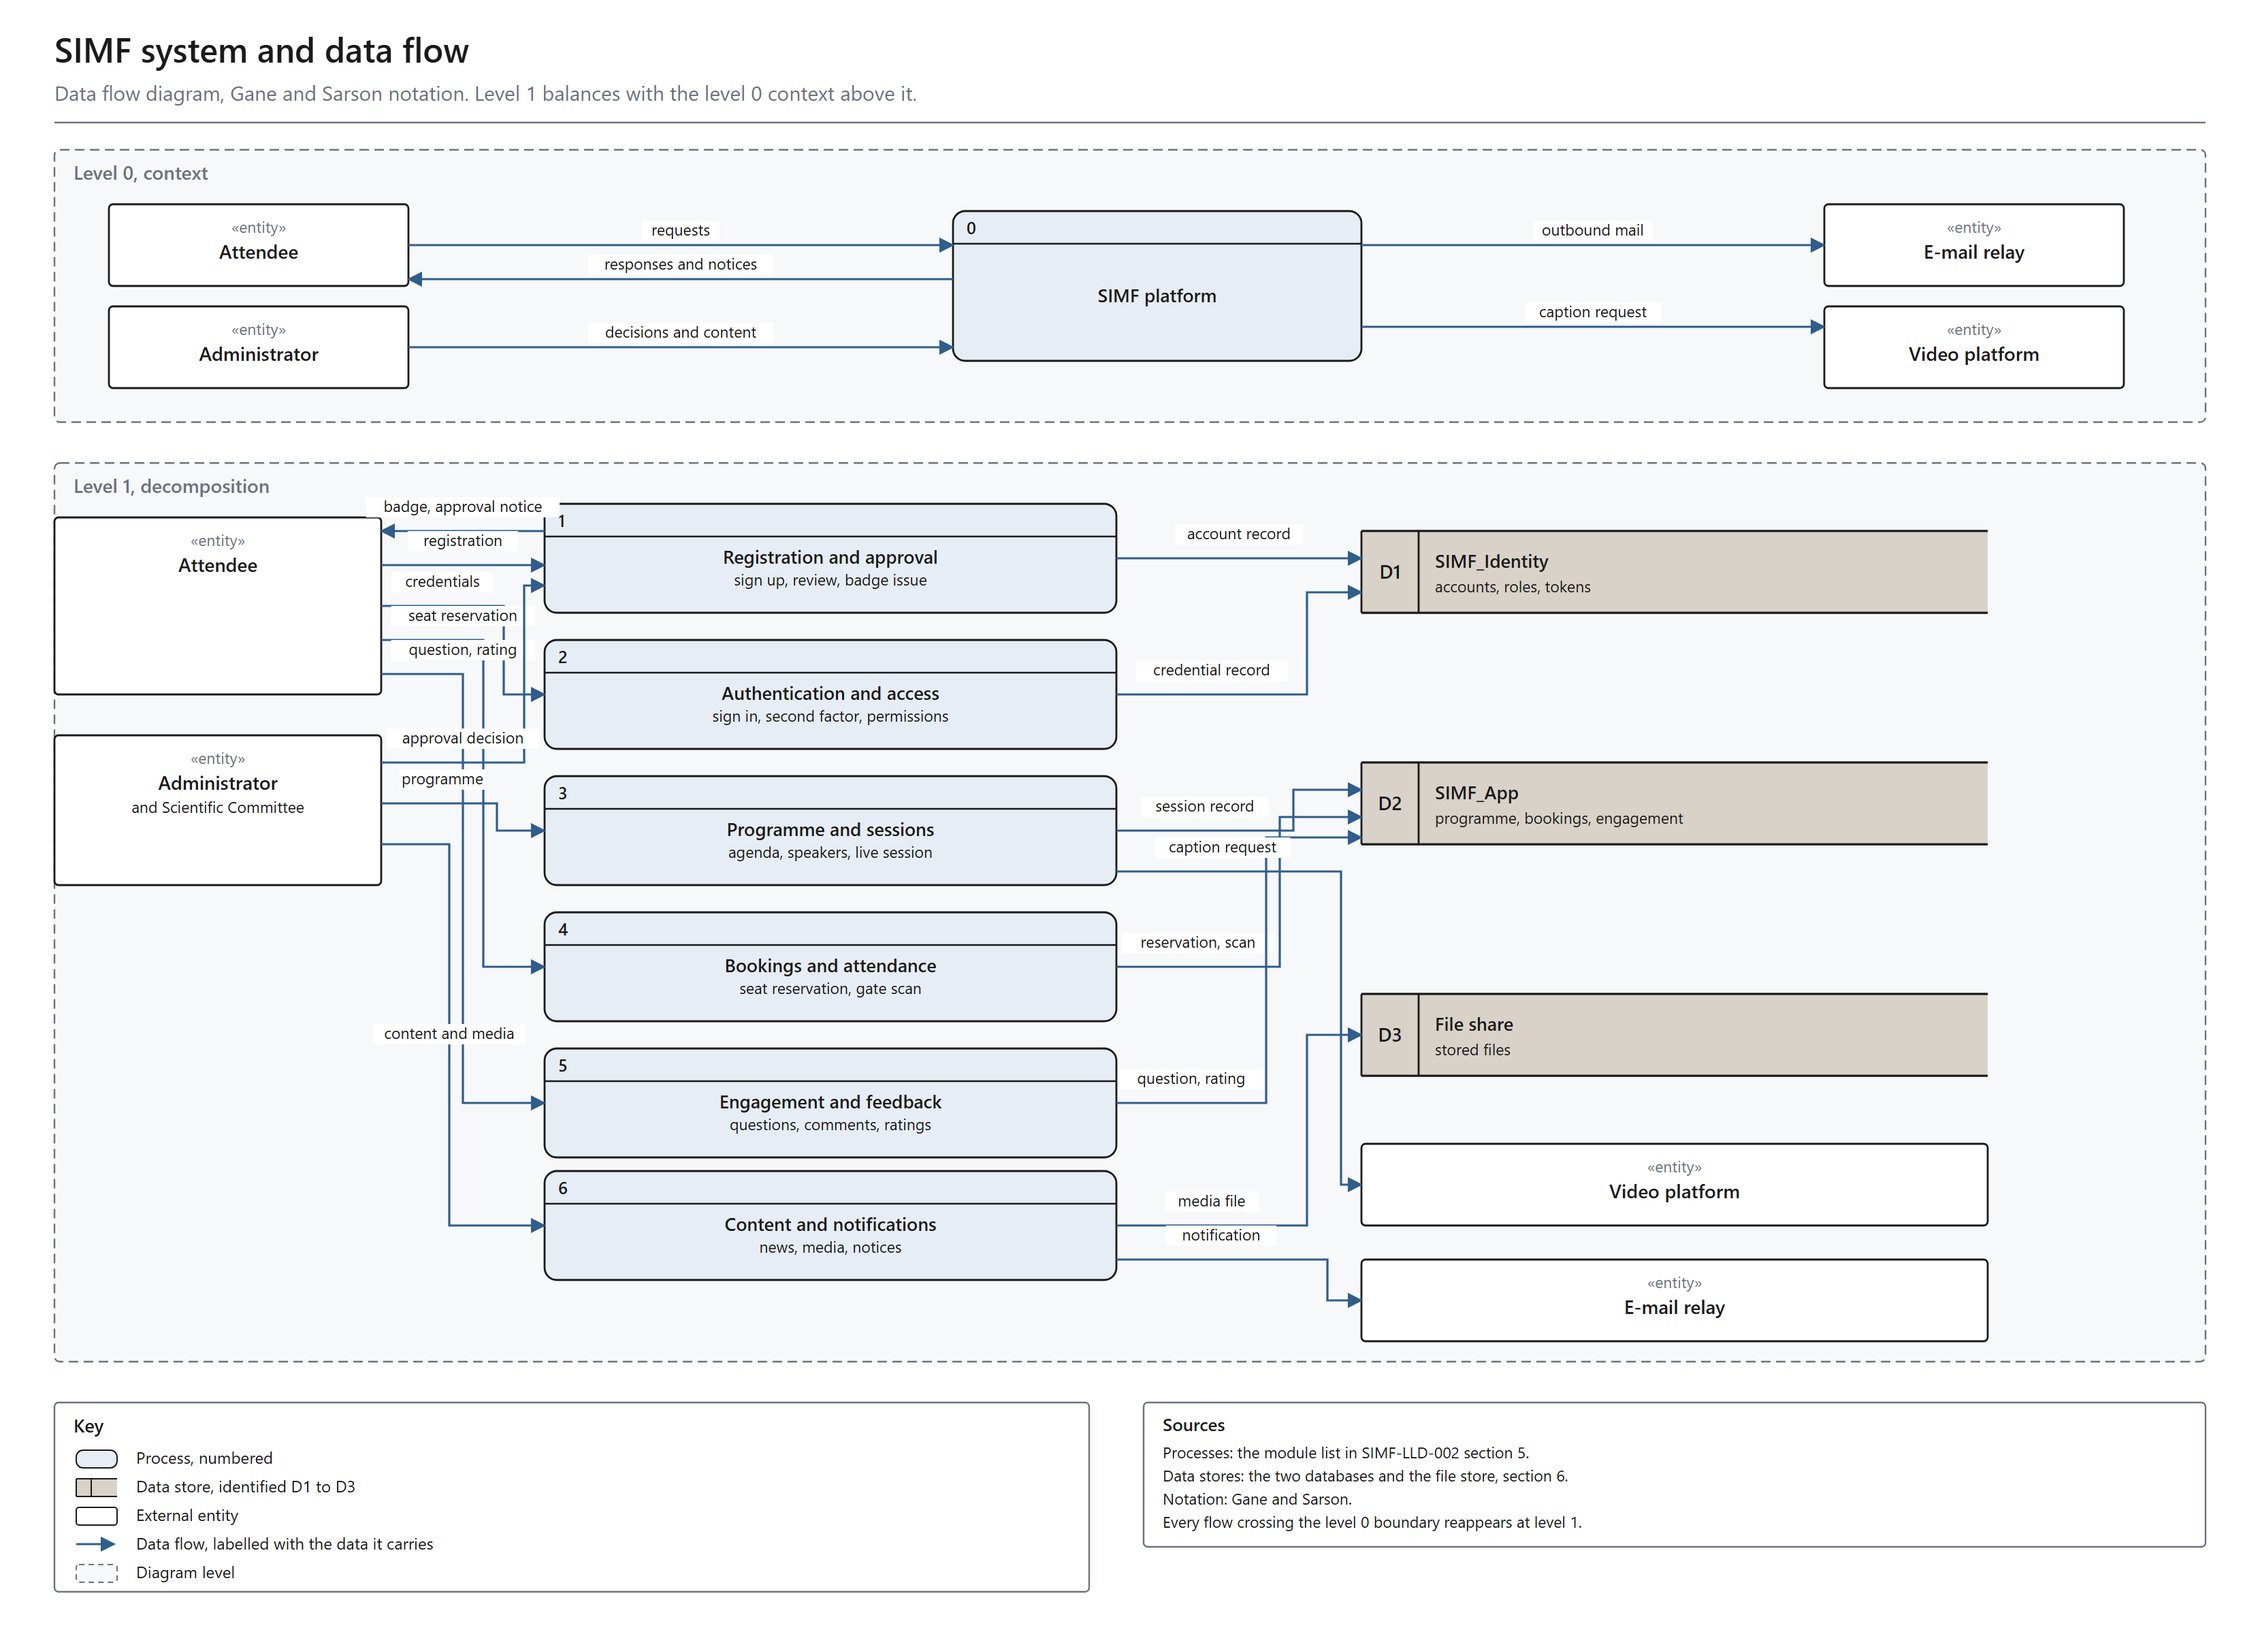
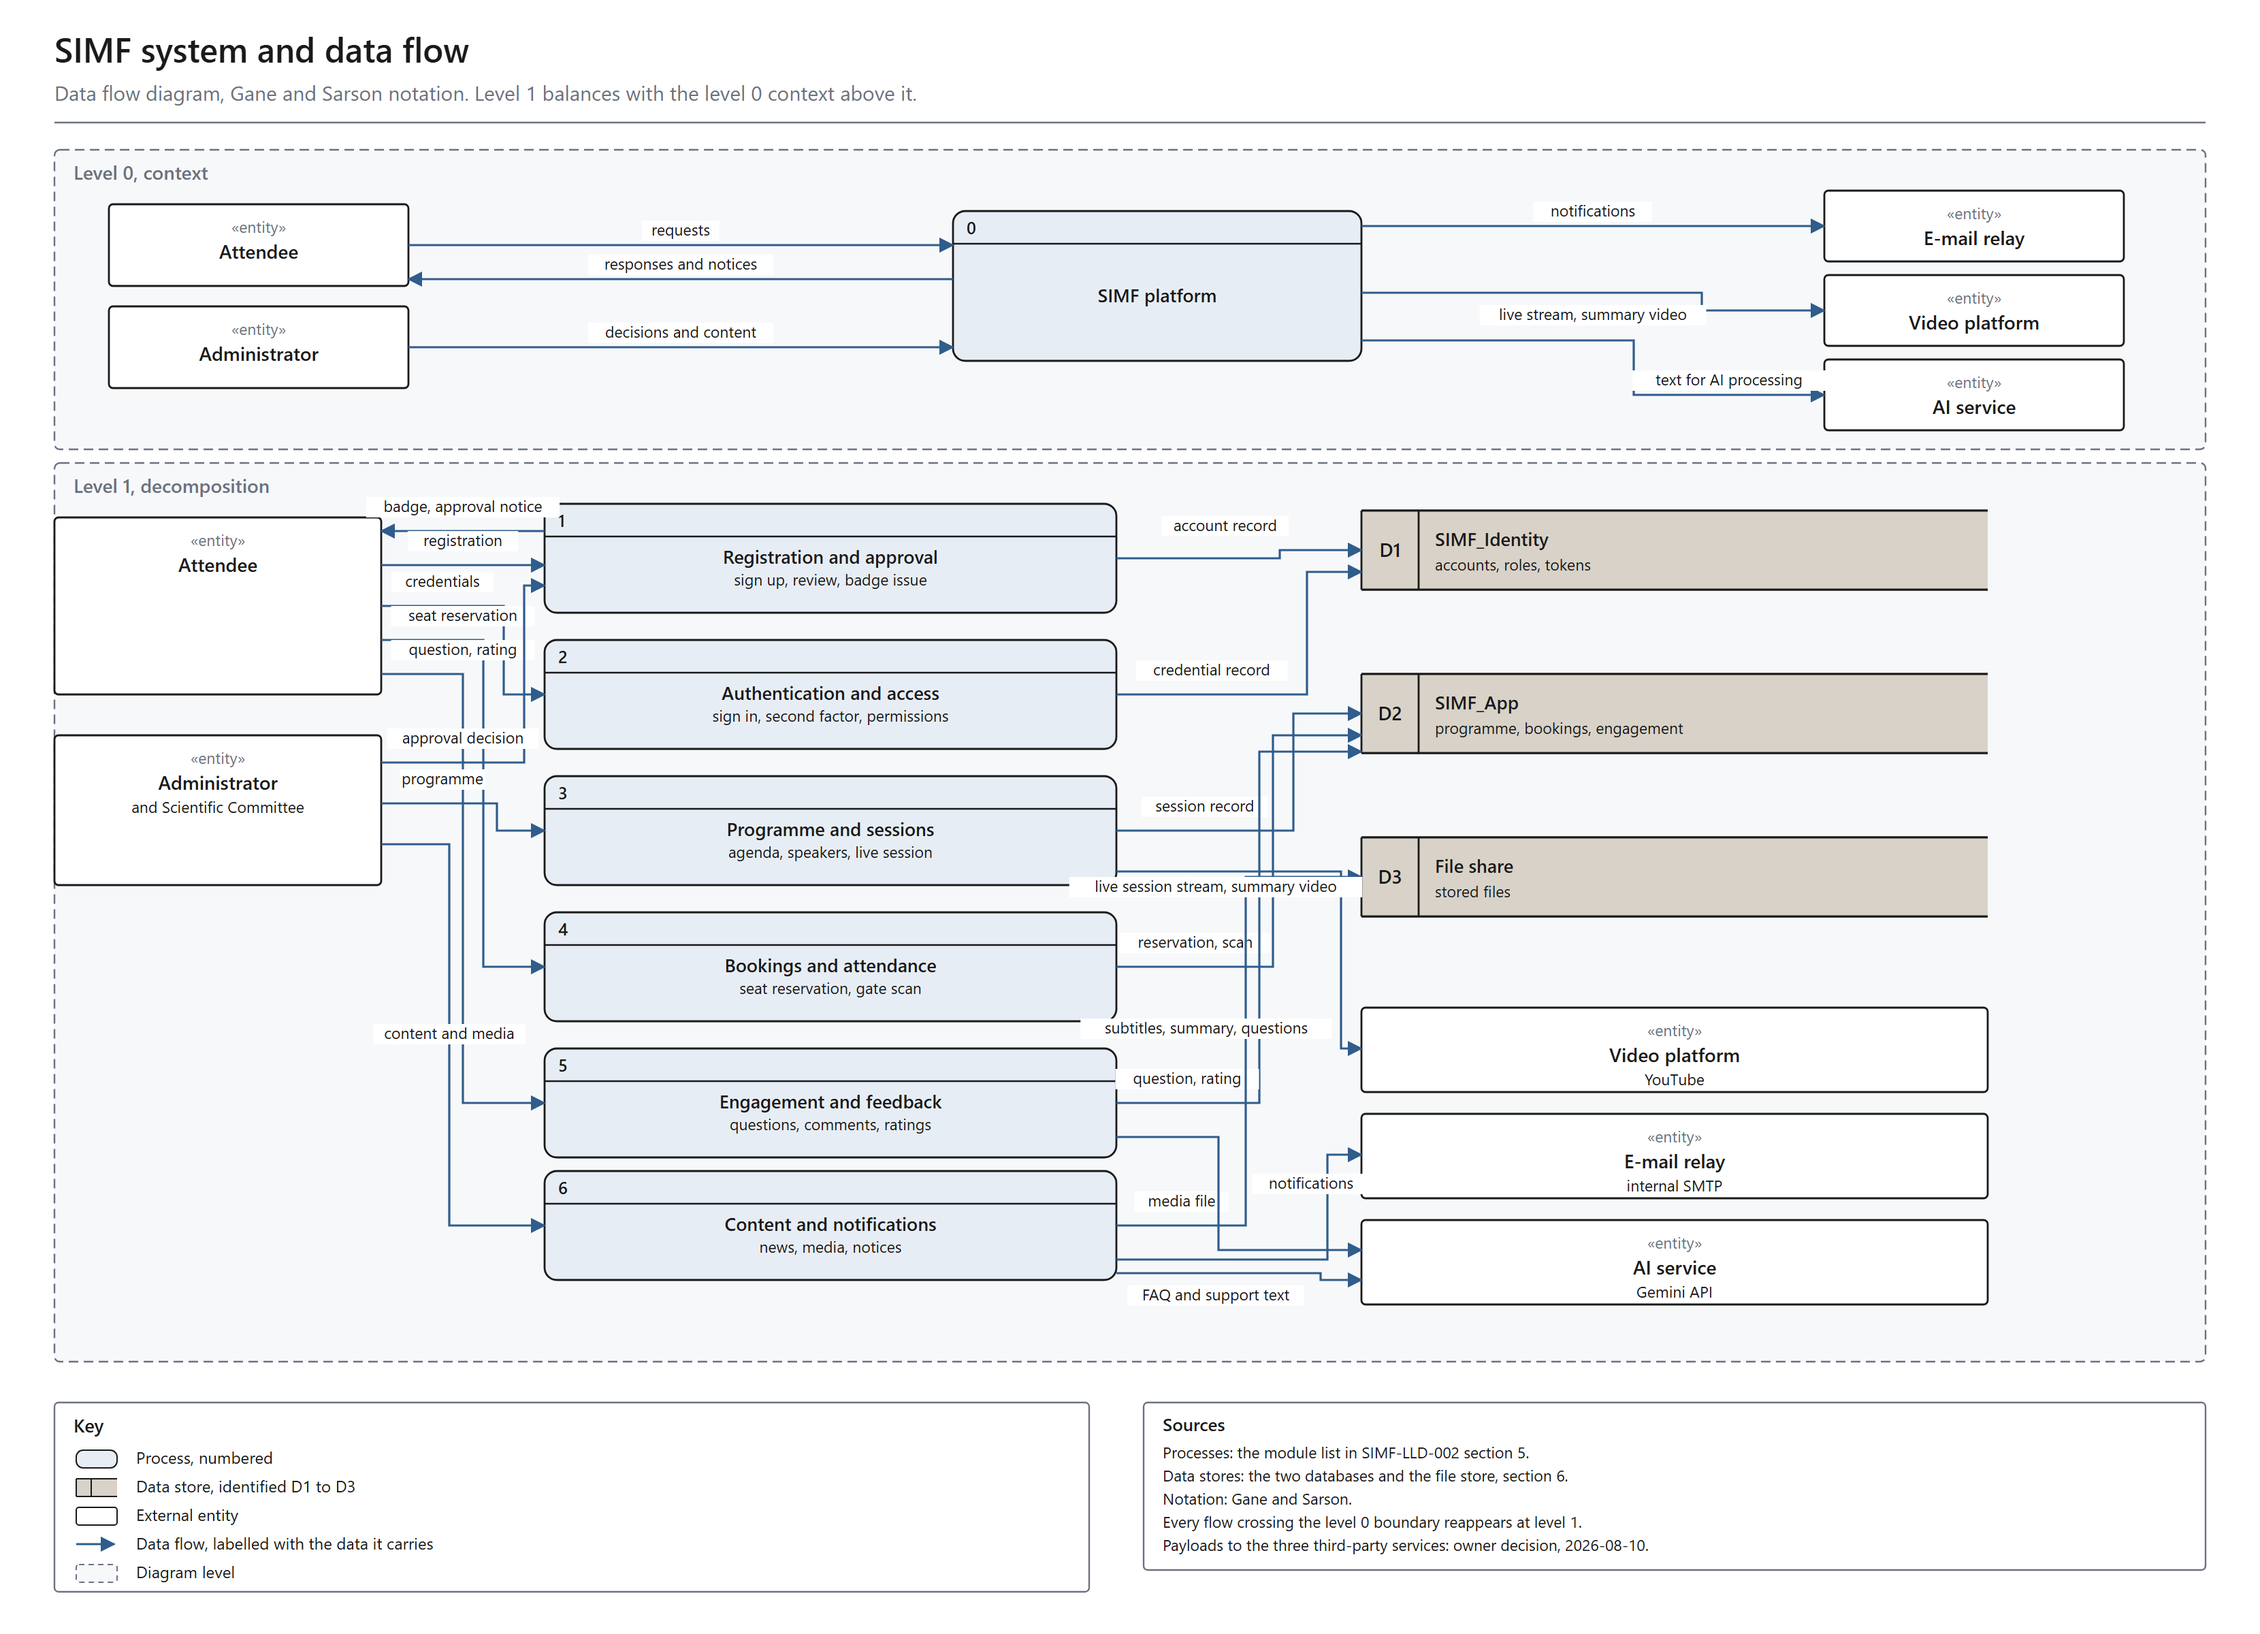
docs(diagrams): name what crosses the boundary to each third-party service
Completes the pair with the previous commit. The video platform, the AI service
and the e-mail relay came out of the architecture sheet because nothing about
them is designed here. They belong on the data-flow sheet, where the question is
not "what is this component" but "what data leaves the estate", and that
question deserves an answer more specific than an arrow.

The AI service is new to this sheet. All three now carry their payload:

  Video platform (YouTube)   live session stream, summary video
  E-mail relay               notifications
  AI service (Gemini API)    subtitles, summary, question filter,
                             FAQ and support text

Level 0 balances: notifications, live stream and summary video, and text for AI
processing each cross the context boundary and reappear at level 1.

Adding a third external forced a re-spacing rather than an insertion. The level 1
band is 340..1000 and its right column was already full, so the three stores and
three entities were re-pitched and the six flows landing on them re-routed. Three
render-and-look passes were needed to clear label collisions - the first put the
video payload on top of the file store, the second put it on "reservation, scan".

Verified by rendering and looking at it: no label overlaps any other, every flow
is labelled, every arrow lands on its target.

diff --git a/tools/diagrams/fig3_dataflow.py b/tools/diagrams/fig3_dataflow.py
@@ -4,6 +4,12 @@ Data flow diagram in Gane and Sarson notation: a level 0 context view, and a
 level 1 decomposition that balances with it. Processes follow the module list in
 SIMF-LLD-002 section 5; the data stores are the two databases and the file store
 from section 6.
+
+The three third-party services appear HERE and not on the component sheet. They
+are outbound calls to public URLs, not components of this solution, so what
+matters about them is the data that crosses the boundary, which is a data-flow
+question. Every flow to one is labelled with the payload it carries (owner
+decision, 2026-08-10).
 """
 
 import os
@@ -20,18 +26,22 @@ s = Sheet(1660, 1200,
           "the level 0 context above it.")
 
 # ------------------------------------------------------------- level 0
-s.band(40, 110, 1580, 200, "Level 0, context")
+s.band(40, 110, 1580, 220, "Level 0, context")
 s.box(80, 150, 220, 60, "Attendee", "entity")
 s.box(80, 225, 220, 60, "Administrator", "entity")
 s.process(700, 155, 300, 110, "0", "SIMF platform")
-s.box(1340, 150, 220, 60, "E-mail relay", "entity")
-s.box(1340, 225, 220, 60, "Video platform", "entity")
+s.box(1340, 140, 220, 52, "E-mail relay", "entity")
+s.box(1340, 202, 220, 52, "Video platform", "entity")
+s.box(1340, 264, 220, 52, "AI service", "entity")
 
 s.path([(300, 180), (700, 180)], "requests")
 s.path([(700, 205), (300, 205)], "responses and notices")
 s.path([(300, 255), (700, 255)], "decisions and content")
-s.path([(1000, 180), (1340, 180)], "outbound mail")
-s.path([(1000, 240), (1340, 240)], "caption request")
+s.path([(1000, 166), (1340, 166)], "notifications", label_at=(1170, 166))
+s.path([(1000, 215), (1250, 215), (1250, 228), (1340, 228)],
+       "live stream, summary video", label_at=(1170, 242))
+s.path([(1000, 250), (1200, 250), (1200, 290), (1340, 290)],
+       "text for AI processing", label_at=(1270, 290))
 
 # ------------------------------------------------------------- level 1
 s.band(40, 340, 1580, 660, "Level 1, decomposition")
@@ -53,12 +63,16 @@ s.process(400, 770, 420, 80, "5", "Engagement and feedback",
 s.process(400, 860, 420, 80, "6", "Content and notifications",
           "news, media, notices")
 
-s.store(1000, 390, 460, 60, "D1", "SIMF_Identity", "accounts, roles, tokens")
-s.store(1000, 560, 460, 60, "D2", "SIMF_App", "programme, bookings, engagement")
-s.store(1000, 730, 460, 60, "D3", "File share", "stored files")
+# The right column carries three stores and three external entities. It is spaced
+# to the band rather than to the stores alone: adding the AI service without
+# re-spacing would have pushed the last entity past the band's lower edge.
+s.store(1000, 375, 460, 58, "D1", "SIMF_Identity", "accounts, roles, tokens")
+s.store(1000, 495, 460, 58, "D2", "SIMF_App", "programme, bookings, engagement")
+s.store(1000, 615, 460, 58, "D3", "File share", "stored files")
 
-s.box(1000, 840, 460, 60, "Video platform", "entity")
-s.box(1000, 925, 460, 60, "E-mail relay", "entity")
+s.box(1000, 740, 460, 62, "Video platform", "entity", "YouTube")
+s.box(1000, 818, 460, 62, "E-mail relay", "entity", "internal SMTP")
+s.box(1000, 896, 460, 62, "AI service", "entity", "Gemini API")
 
 # ------------------------------------------------------- entity to process
 s.path([(400, 390), (280, 390)], "badge, approval notice", label_at=(340, 383))
@@ -77,23 +91,30 @@ s.path([(280, 620), (330, 620), (330, 900), (400, 900)], "content and media",
        label_at=(330, 770))
 
 # -------------------------------------------------------- process to store
-s.path([(820, 410), (1000, 410)], "account record", label_at=(910, 403))
-s.path([(820, 510), (960, 510), (960, 435), (1000, 435)], "credential record",
+s.path([(820, 410), (940, 410), (940, 404), (1000, 404)], "account record",
+       label_at=(900, 397))
+s.path([(820, 510), (960, 510), (960, 420), (1000, 420)], "credential record",
        label_at=(890, 503))
-s.path([(820, 610), (950, 610), (950, 580), (1000, 580)], "session record",
+s.path([(820, 610), (950, 610), (950, 524), (1000, 524)], "session record",
        label_at=(885, 603))
-s.path([(820, 710), (940, 710), (940, 600), (1000, 600)], "reservation, scan",
-       label_at=(880, 703))
-s.path([(820, 810), (930, 810), (930, 615), (1000, 615)], "question, rating",
-       label_at=(875, 803))
-s.path([(820, 900), (960, 900), (960, 760), (1000, 760)], "media file",
-       label_at=(890, 893))
+s.path([(820, 710), (935, 710), (935, 540), (1000, 540)], "reservation, scan",
+       label_at=(878, 703))
+s.path([(820, 810), (925, 810), (925, 552), (1000, 552)], "question, rating",
+       label_at=(872, 803))
+s.path([(820, 900), (915, 900), (915, 644), (1000, 644)], "media file",
+       label_at=(868, 893))
 
 # ----------------------------------------------------- process to external
-s.path([(820, 640), (985, 640), (985, 870), (1000, 870)], "caption request",
-       label_at=(898, 633))
-s.path([(820, 925), (975, 925), (975, 955), (1000, 955)], "notification",
-       label_at=(897, 918))
+# What actually crosses the boundary to each third party, named rather than
+# implied. These labels are the whole reason the three appear on this sheet.
+s.path([(820, 640), (985, 640), (985, 770), (1000, 770)],
+       "live session stream, summary video", label_at=(893, 662))
+s.path([(820, 925), (975, 925), (975, 848), (1000, 848)], "notifications",
+       label_at=(963, 880))
+s.path([(820, 835), (895, 835), (895, 918), (1000, 918)],
+       "subtitles, summary, questions", label_at=(886, 766))
+s.path([(820, 935), (970, 935), (970, 940), (1000, 940)], "FAQ and support text",
+       label_at=(893, 962))
 
 # ------------------------------------------------------------- apparatus
 s.legend(40, 1030, 760, [
@@ -109,6 +130,7 @@ s.note(840, 1030, 780, [
     "Data stores: the two databases and the file store, section 6.",
     "Notation: Gane and Sarson.",
     "Every flow crossing the level 0 boundary reappears at level 1.",
+    "Payloads to the three third-party services: owner decision, 2026-08-10.",
 ], "Sources")
 
 s.save(OUT)
